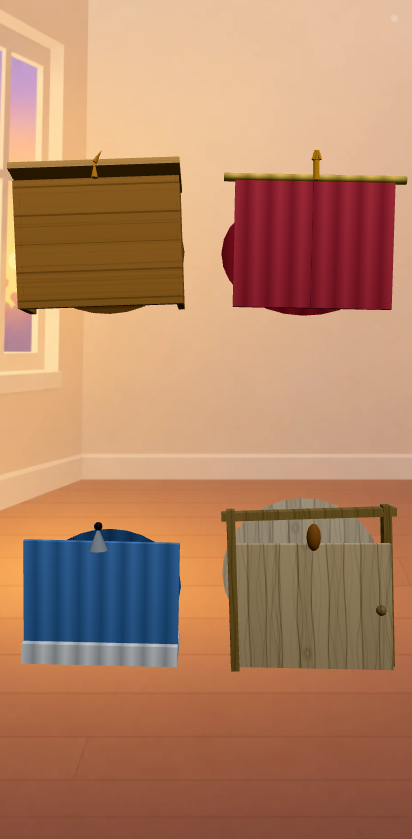
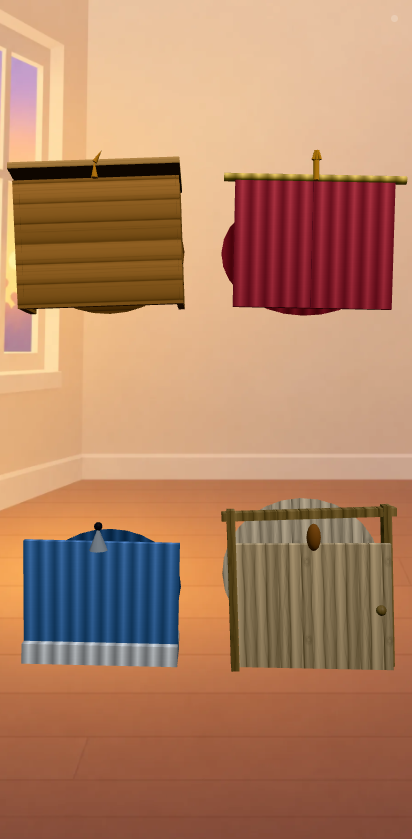
サイクル5〜6: 模様を細かくし、下地を中間の灰にして明暗の幅を広げる
**白から描き始めていたので、模様が「暗くする側」しか効いていなかった。**
白の上に白を重ねても何も変わらないため、板ごとの明るさを ±5% 振っている
つもりが実際は -5%〜0% しか出ていなかった。はこ の内部の L* の
四分位範囲が 3.59 から動かなかった原因がこれ。

- 下地を白 → #c6c6c6。明るくする側も効いて幅が倍になる。
  全体が暗くなるぶんは mean を測って呼ぶ側が打ち消すので場面は暗くならない
- 板1枚の中に丸み（上が明るく下が暗い）を入れる。ここが幅をいちばん作る
- SURFACE_TILE 1.2 → 0.85。面1枚に模様が1回ぶんしか乗らず、
  平らな部分が残っていた

実測: 基準外 37 → 30 件、悪化 11 → 8 件。
V2 は はこ 3.59→7.97 / とびら 6.05→10.99 / こや 6.08→14.27 /
うみいわ 11.25→12.96。V3 は全29箇所が基準を満たした。

Claude-Session: https://claude.ai/code/session_01CKSSptub2R8nw4GNxWzQ6d

diff --git a/src/peekaboo/SpotTextures.ts b/src/peekaboo/SpotTextures.ts
@@ -30,6 +30,29 @@ import type { SpotKind } from '../types';
 /** 生成するテクスチャの一辺。模様は繰り返して貼るので大きくしなくてよい */
 const SIZE = 256;
 
+/**
+ * 下地の明るさ。
+ *
+ * ==========================================================================
+ * **白から描き始めない**（2026-09-07 に実測して直した）。
+ * 白の上に白を重ねても何も変わらないので、模様が「暗くする側」しか効かず、
+ * 板ごとの明暗を ±5% 振っているつもりが実際は −5%〜0% しか出ていなかった。
+ * はこ の内部の L\* の四分位範囲が 3.59 から動かなかった原因がこれ。
+ *
+ * 中間の灰から描くと、明るくする側も効いて幅が倍になる。
+ * 全体が暗くなるぶんは `mean` を測って呼ぶ側が打ち消すので、
+ * 下地を暗くしても場面は暗くならない。
+ * ==========================================================================
+ */
+const BASE = '#c6c6c6';
+
+/** 符号つきの重ね塗り。`+` で明るく、`-` で暗く */
+function tone(amount: number): string {
+  return amount >= 0
+    ? `rgba(255,255,255,${amount.toFixed(3)})`
+    : `rgba(0,0,0,${(-amount).toFixed(3)})`;
+}
+
 export interface SurfaceTexture {
   texture: THREE.Texture;
   /**
@@ -111,18 +134,23 @@ type Painter = (ctx: CanvasRenderingContext2D, rng: () => number) => void;
 /** 板を横に張った箱。**継ぎ目を強く**（ここが L\* の幅をいちばん作る） */
 const plank: Painter = (ctx, rng) => {
   const rows = 4;
+  const h = SIZE / rows;
   for (let i = 0; i < rows; i++) {
-    const y0 = (i * SIZE) / rows;
+    const y0 = i * h;
     // 板ごとに明るさを変える。同じ板が並ぶと「壁紙」に見える
-    const tone = 0.94 + rng() * 0.1;
-    ctx.fillStyle = `rgba(255,255,255,0)`;
-    ctx.fillRect(0, y0, SIZE, SIZE / rows);
-    ctx.fillStyle = tone < 1 ? `rgba(0,0,0,${(1 - tone).toFixed(3)})` : `rgba(255,255,255,${(tone - 1).toFixed(3)})`;
-    ctx.fillRect(0, y0, SIZE, SIZE / rows);
+    ctx.fillStyle = tone((rng() * 2 - 1) * 0.17);
+    ctx.fillRect(0, y0, SIZE, h);
+    // 板1枚の中の丸み。上が明るく、下が暗い。**ここが明暗の幅をいちばん作る**
+    const round = ctx.createLinearGradient(0, y0, 0, y0 + h);
+    round.addColorStop(0, 'rgba(255,255,255,0.20)');
+    round.addColorStop(0.42, 'rgba(255,255,255,0.05)');
+    round.addColorStop(1, 'rgba(0,0,0,0.22)');
+    ctx.fillStyle = round;
+    ctx.fillRect(0, y0, SIZE, h);
     // 継ぎ目
-    ctx.fillStyle = 'rgba(0,0,0,0.34)';
+    ctx.fillStyle = 'rgba(0,0,0,0.44)';
     ctx.fillRect(0, y0 - 1.5, SIZE, 3);
-    ctx.fillStyle = 'rgba(255,255,255,0.22)';
+    ctx.fillStyle = 'rgba(255,255,255,0.30)';
     ctx.fillRect(0, y0 + 1.5, SIZE, 2);
   }
   // 板目
@@ -141,9 +169,14 @@ const plank: Painter = (ctx, rng) => {
 const wood: Painter = (ctx, rng) => {
   for (let i = 0; i < 7; i++) {
     const x = (i * SIZE) / 7 + rng() * 6;
-    const tone = 0.93 + rng() * 0.12;
-    ctx.fillStyle =
-      tone < 1 ? `rgba(0,0,0,${(1 - tone).toFixed(3)})` : `rgba(255,255,255,${(tone - 1).toFixed(3)})`;
+    ctx.fillStyle = tone((rng() * 2 - 1) * 0.19);
+    ctx.fillRect(x, 0, SIZE / 7, SIZE);
+    // 板1枚の中の丸み（縦の板なので左右に振る）
+    const round = ctx.createLinearGradient(x, 0, x + SIZE / 7, 0);
+    round.addColorStop(0, 'rgba(0,0,0,0.16)');
+    round.addColorStop(0.4, 'rgba(255,255,255,0.18)');
+    round.addColorStop(1, 'rgba(0,0,0,0.16)');
+    ctx.fillStyle = round;
     ctx.fillRect(x, 0, SIZE / 7, SIZE);
     streak(ctx, x, 2.5, 'rgba(0,0,0,0.26)', 2, rng);
   }
@@ -171,9 +204,9 @@ const fabric: Painter = (ctx, rng) => {
     const x = (i * SIZE) / folds;
     const w = SIZE / folds;
     const g = ctx.createLinearGradient(x, 0, x + w, 0);
-    g.addColorStop(0, 'rgba(0,0,0,0.22)');
-    g.addColorStop(0.45, 'rgba(255,255,255,0.16)');
-    g.addColorStop(1, 'rgba(0,0,0,0.22)');
+    g.addColorStop(0, 'rgba(0,0,0,0.30)');
+    g.addColorStop(0.45, 'rgba(255,255,255,0.34)');
+    g.addColorStop(1, 'rgba(0,0,0,0.30)');
     ctx.fillStyle = g;
     for (const dx of [-SIZE, 0, SIZE]) ctx.fillRect(x + dx, 0, w, SIZE);
   }
@@ -198,7 +231,7 @@ const stone: Painter = (ctx, rng) => {
       rng() * SIZE,
       12 + rng() * 34,
       10 + rng() * 28,
-      dark ? `rgba(0,0,0,${(0.05 + rng() * 0.1).toFixed(3)})` : `rgba(255,255,255,${(0.05 + rng() * 0.1).toFixed(3)})`
+      dark ? `rgba(0,0,0,${(0.06 + rng() * 0.14).toFixed(3)})` : `rgba(255,255,255,${(0.06 + rng() * 0.16).toFixed(3)})`
     );
   }
   for (let i = 0; i < 220; i++) {
@@ -231,7 +264,7 @@ const foliage: Painter = (ctx, rng) => {
       rng() * SIZE,
       r,
       r * (0.5 + rng() * 0.6),
-      dark ? `rgba(0,0,0,${(0.07 + rng() * 0.14).toFixed(3)})` : `rgba(255,255,255,${(0.06 + rng() * 0.12).toFixed(3)})`
+      dark ? `rgba(0,0,0,${(0.08 + rng() * 0.16).toFixed(3)})` : `rgba(255,255,255,${(0.08 + rng() * 0.18).toFixed(3)})`
     );
   }
   // 葉脈のような細い線
@@ -242,13 +275,13 @@ const foliage: Painter = (ctx, rng) => {
 
 /** 水面。横に流れる波 */
 const water: Painter = (ctx, rng) => {
-  for (let i = 0; i < 26; i++) {
+  for (let i = 0; i < 34; i++) {
     const y = rng() * SIZE;
-    const h = 3 + rng() * 12;
+    const h = 4 + rng() * 16;
     const g = ctx.createLinearGradient(0, y, 0, y + h);
     const light = rng() < 0.5;
     g.addColorStop(0, 'rgba(255,255,255,0)');
-    g.addColorStop(0.5, light ? 'rgba(255,255,255,0.22)' : 'rgba(0,0,0,0.16)');
+    g.addColorStop(0.5, light ? 'rgba(255,255,255,0.40)' : 'rgba(0,0,0,0.30)');
     g.addColorStop(1, 'rgba(255,255,255,0)');
     ctx.fillStyle = g;
     for (const dy of [-SIZE, 0, SIZE]) ctx.fillRect(0, y + dy, SIZE, h);
@@ -259,9 +292,9 @@ const water: Painter = (ctx, rng) => {
 const clay: Painter = (ctx, rng) => {
   for (let i = 0; i < 16; i++) {
     const y = (i * SIZE) / 16 + rng() * 3;
-    ctx.fillStyle = `rgba(0,0,0,${(0.05 + rng() * 0.06).toFixed(3)})`;
+    ctx.fillStyle = `rgba(0,0,0,${(0.08 + rng() * 0.09).toFixed(3)})`;
     for (const dy of [-SIZE, 0, SIZE]) ctx.fillRect(0, y + dy, SIZE, 2.5);
-    ctx.fillStyle = 'rgba(255,255,255,0.07)';
+    ctx.fillStyle = 'rgba(255,255,255,0.14)';
     for (const dy of [-SIZE, 0, SIZE]) ctx.fillRect(0, y + dy + 2.5, SIZE, 2);
   }
   for (let i = 0; i < 26; i++) {
@@ -306,7 +339,7 @@ export function createSurfaceTexture(kind: SpotKind, seed: number): SurfaceTextu
   const ctx = canvas.getContext('2d', { willReadFrequently: true });
   if (!ctx) return null;
 
-  ctx.fillStyle = '#ffffff';
+  ctx.fillStyle = BASE;
   ctx.fillRect(0, 0, SIZE, SIZE);
   (PAINTERS[kind] ?? plank)(ctx, mulberry32(seed));
 

diff --git a/src/data/look.ts b/src/data/look.ts
@@ -52,7 +52,7 @@ export const FORM_SHADING = {
  * 隠れ場所は幅 1.70・高さ 1.35 なので、1.2 だと横に 1.4 回ぶん。
  * 小さくすると模様が細かくなり、遠目には無地に戻る。
  */
-export const SURFACE_TILE = 1.2;
+export const SURFACE_TILE = 0.85;
 
 /**
  * 落ち影（`Backdrop.createContactShadow`）。

diff --git a/docs/visual-log.md b/docs/visual-log.md
@@ -12,3 +12,5 @@
 | 2 | 手続き生成の表面テクスチャ（`SpotTextures.ts`）| 32 | 7 | 採用 | 板目・木目・布の襞・石のまだら・葉。**隠れ場所ごとに種を変える**。貼ると暗くなるぶんは色を 1/平均 倍して打ち消す |
 | 3 | 落ち影を本体の外接箱に合わせる（`DROP_SHADOW`）| 40 | 12 | 採用 | 途中で2回踏んだ: ①ワールド座標のまま使って影が二重に持ち上がった ②倍率で作ったら本体の裏に隠れて V5 が 0 になった。**上下の段で視差の符号が逆**なので見かけの位置から逆算する |
 | 4 | 背板を輪郭の内側に収める・楕円にする／岩の内側の板を詰める | 37 | 11 | 採用 | 背板が平らな長方形として見えていた。岩の板は W×1.1 → W×0.78（0.62 まで詰めたら遮蔽テストが 5点の漏れを捕まえた。高さは詰めない）|
+| 5 | 模様の細かさ `SURFACE_TILE` 1.2 → 0.85 | 36 | 11 | 採用 | 面1枚に模様が1回ぶんしか乗らず、平らな部分が残っていた |
+| 6 | 模様の下地を白から中間の灰へ／構造の明暗を広げる | 30 | 8 | 採用 | **白の上に白を重ねても何も変わらない**ので、模様が暗くする側しか効いていなかった。V2 が はこ 3.59→7.97 / とびら 6.05→10.99 / こや 6.08→14.27 |
